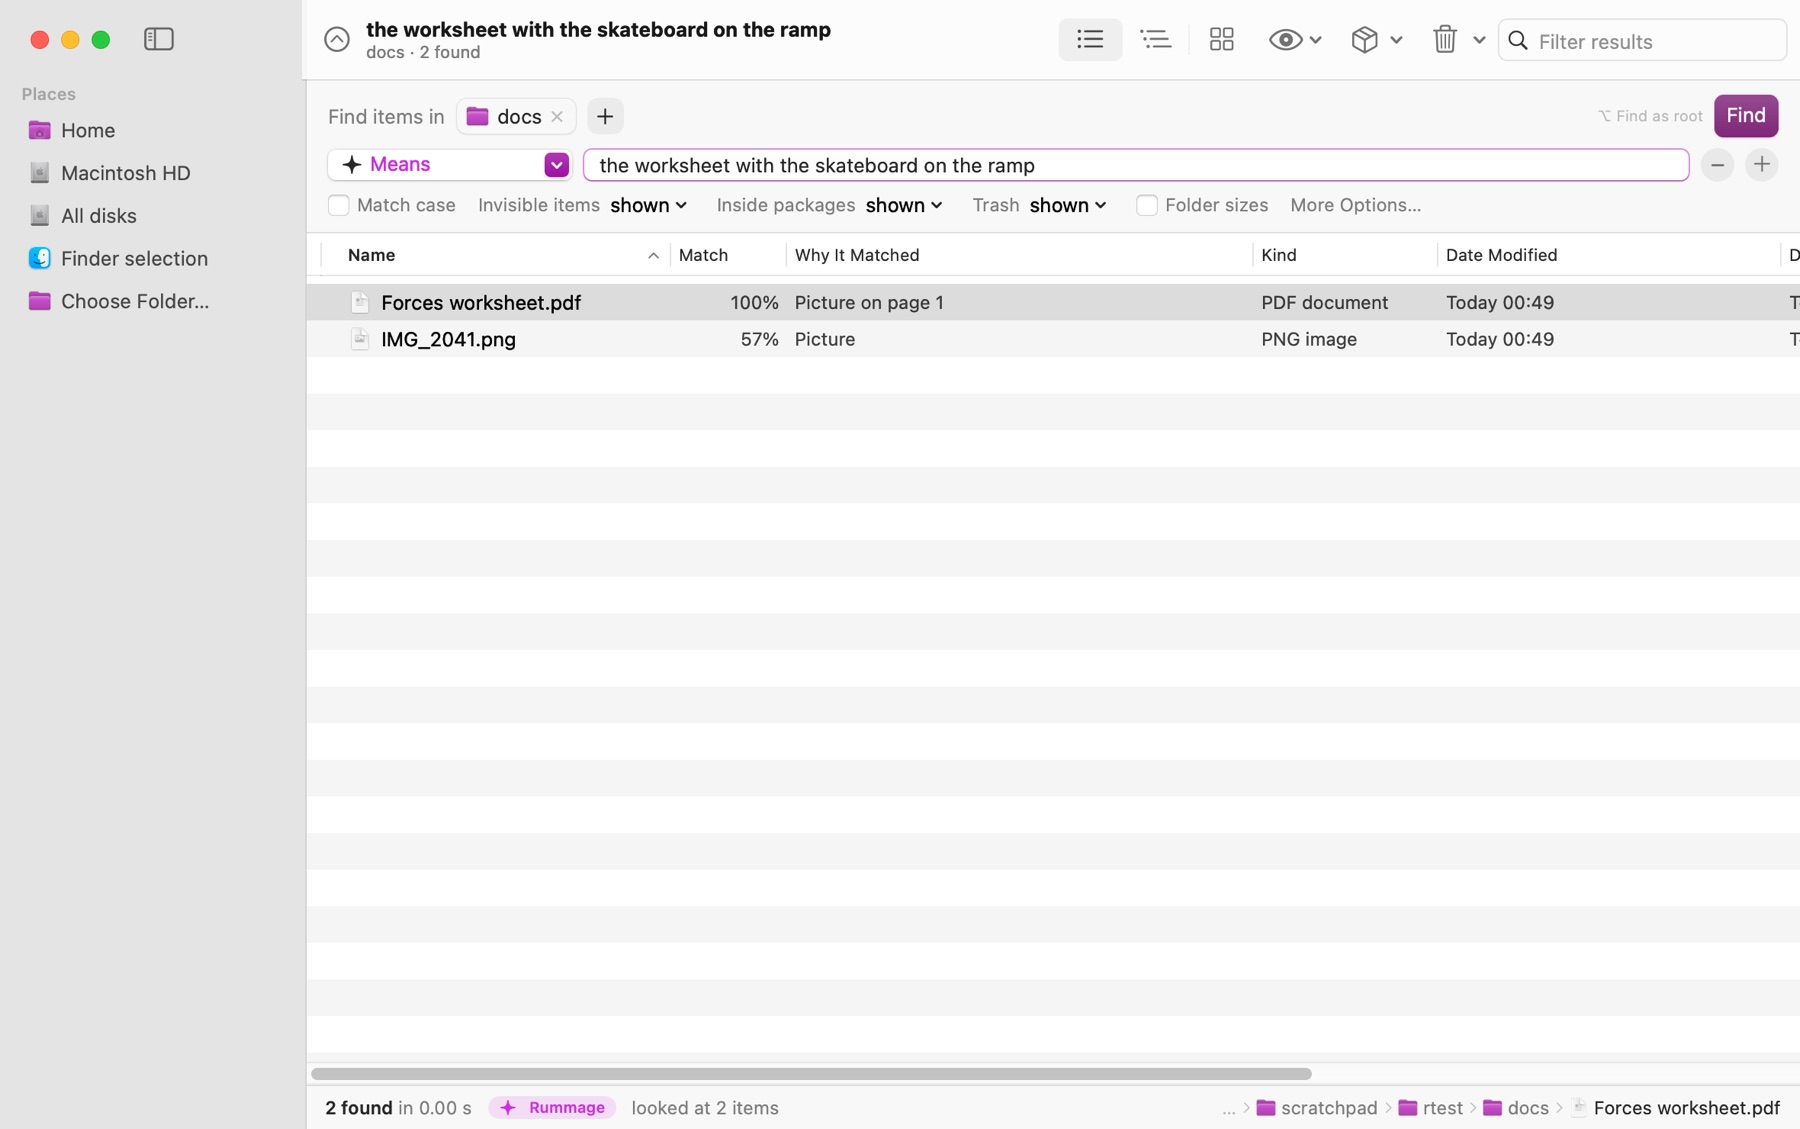
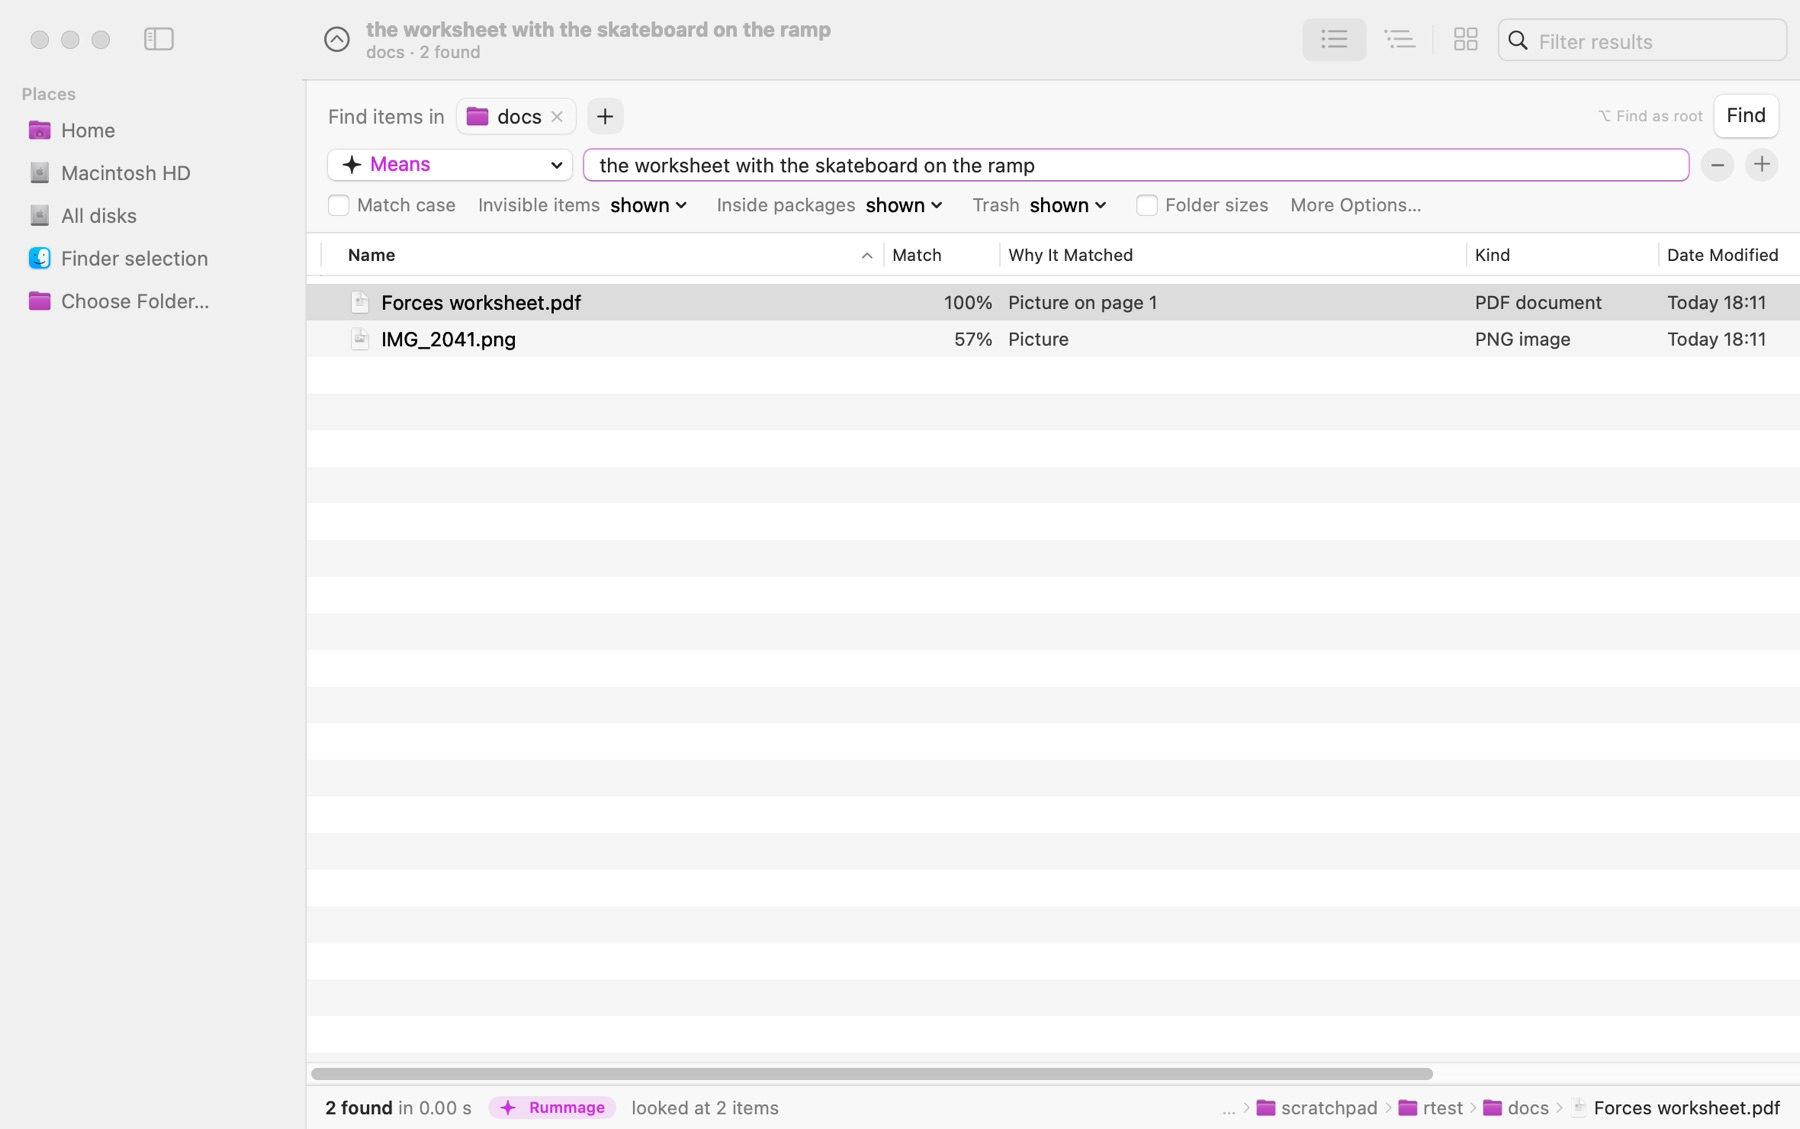
Publish Rummage 1.0.1

diff --git a/apps/rummage/index.html b/apps/rummage/index.html
@@ -115,12 +115,12 @@ ol.rm .n{flex:none;width:24px;height:24px;border-radius:12px;display:grid;place-
     <div><h1>Rummage</h1>
     <p class="sum">Find any file by its name, dates, size, kind, tags, contents and more, straight from the disk with no index, and several times faster than a one-folder-at-a-time search in your home folder. Turn on Rummage and it also finds files by what they're about: a sentence like “the worksheet with the skateboard on the ramp” finds the PDF, the scan or the photo, read on your Mac and never uploaded. Opens Find Any File's saved searches.</p>
     <p class="alt">An alternative to Find Any File.</p>
-    <div class="acts"><a class="btn primary big" href="https://github.com/explainsims/store/releases/download/rummage-1.0.0/Rummage-1.0.0.zip">Download</a><small>1.0.0 · 22.6 MB · free</small><a href="#feedback"><svg width="14" height="14" viewBox="0 0 15 15" fill="none" stroke="currentColor" stroke-width="1.4" stroke-linejoin="round" aria-hidden="true"><path d="M2.2 3.6c0-.9.7-1.6 1.6-1.6h7.4c.9 0 1.6.7 1.6 1.6v5.2c0 .9-.7 1.6-1.6 1.6H6.4L3.6 12.8v-2.4c-.8 0-1.4-.7-1.4-1.6z"/></svg>Send Feedback</a></div>
+    <div class="acts"><a class="btn primary big" href="https://github.com/explainsims/store/releases/download/rummage-1.0.1/Rummage-1.0.1.zip">Download</a><small>1.0.1 · 22.5 MB · free</small><a href="#feedback"><svg width="14" height="14" viewBox="0 0 15 15" fill="none" stroke="currentColor" stroke-width="1.4" stroke-linejoin="round" aria-hidden="true"><path d="M2.2 3.6c0-.9.7-1.6 1.6-1.6h7.4c.9 0 1.6.7 1.6 1.6v5.2c0 .9-.7 1.6-1.6 1.6H6.4L3.6 12.8v-2.4c-.8 0-1.4-.7-1.4-1.6z"/></svg>Send Feedback</a></div>
     <p class="tip">Or get <a href="../../apps/storefront/">Storefront</a>: it installs Rummage in one click, skips the Open Anyway step, and keeps it up to date.</p></div>
   </header>
   <section class="facts" aria-label="Facts">
-    <div><small>Version</small><b>1.0.0</b><i>latest</i></div>
-    <div><small>Size</small><b>22.6 MB</b><i>download</i></div>
+    <div><small>Version</small><b>1.0.1</b><i>latest</i></div>
+    <div><small>Size</small><b>22.5 MB</b><i>download</i></div>
     <div><small>Needs</small><b>macOS 14</b><i>or later</i></div>
     <div><small>Chip</small><b>Any Mac</b><i>Apple silicon and Intel</i></div>
     <div><small>Updated</small><b>14 Nov</b><i>2026</i></div>
@@ -131,7 +131,7 @@ ol.rm .n{flex:none;width:24px;height:24px;border-radius:12px;display:grid;place-
 </section>
 <dialog class="lightbox" aria-label="Screenshot"><img alt=""><button type="button" class="lb prev" aria-label="Previous">&#8249;</button><button type="button" class="lb next" aria-label="Next">&#8250;</button><button type="button" class="lb x" aria-label="Close">&times;</button></dialog>
   <section class="cols">
-    <div><h2>What's new in 1.0.0</h2><ul><li>First release: every Find Any File rule and its speed (about 7× faster in a home folder), plus Rummage, which finds files by what's in them, read on your Mac.</li></ul></div>
+    <div><h2>What's new in 1.0.1</h2><ul><li>The toolbar's eye, box and trash icons are gone: set invisible items, package contents and the Trash with the pickers under the rules.</li></ul></div>
     <div><h2>Good to know</h2><dl class="kv"><dt>Needs</dt><dd>Searching by meaning needs macOS 15 and an Apple Silicon Mac, and a one-time download of its reading model (about 0.9 GB)</dd><dt>Licence</dt><dd>MIT</dd><dt>Read Me</dt><dd><a href="readme.html">How to use Rummage</a></dd><dt>First open</dt><dd>macOS asks you to allow it once, under System Settings › Privacy &amp; Security › Open Anyway. Apps installed through Storefront skip that.</dd></dl></div>
   </section>
   <section class="fbcard" id="feedback"><div class="fbtop"><h2>Send feedback about Rummage</h2><span class="priv"><svg width="12" height="12" viewBox="0 0 12 12" fill="none" stroke="currentColor" stroke-width="1.5" aria-hidden="true"><rect x="2" y="5.2" width="8" height="5.6" rx="1.4"/><path d="M3.8 5.2V3.8a2.2 2.2 0 0 1 4.4 0v1.4"/></svg>Private and anonymous</span></div>

diff --git a/index.html b/index.html
@@ -150,8 +150,8 @@ ol.rm .n{flex:none;width:24px;height:24px;border-radius:12px;display:grid;place-
   <div class="t"><h3><a class="cover" href="apps/pigeonhole/">Pigeonhole</a></h3><p class="tag">Spaces of tabs for Chrome and Edge.</p><small>1.4.1 · 2.5 MB</small></div>
   <a class="btn get" href="https://github.com/explainsims/store/releases/download/pigeonhole-1.4.1/Pigeonhole-1.4.1.zip" aria-label="Download Pigeonhole">Download</a></article>
 <article class="app" id="rummage" data-kind="tools" data-text="rummage find any file, even by what's in it. find any file by its name, dates, size, kind, tags, contents and more, straight from the disk with no index, and several times faster than a one-folder-at-a-time search in your home folder. turn on rummage and it also finds files by what they're about: a sentence like “the worksheet with the skateboard on the ramp” finds the pdf, the scan or the photo, read on your mac and never uploaded. opens find any file's saved searches. find any file tools"><img class="icon" src="icons/rummage.png" alt="" width="64" height="64" loading="lazy">
-  <div class="t"><h3><a class="cover" href="apps/rummage/">Rummage</a></h3><p class="tag">Find any file, even by what's in it.</p><small>1.0.0 · 22.6 MB</small></div>
-  <a class="btn get" href="https://github.com/explainsims/store/releases/download/rummage-1.0.0/Rummage-1.0.0.zip" aria-label="Download Rummage">Download</a></article>
+  <div class="t"><h3><a class="cover" href="apps/rummage/">Rummage</a></h3><p class="tag">Find any file, even by what's in it.</p><small>1.0.1 · 22.5 MB</small></div>
+  <a class="btn get" href="https://github.com/explainsims/store/releases/download/rummage-1.0.1/Rummage-1.0.1.zip" aria-label="Download Rummage">Download</a></article>
 <article class="app" id="scrawl" data-kind="tools" data-text="scrawl screenshots with arrows, text and blur. capture an area, a window or the whole screen from the menu bar, then mark it up with arrows, shapes, text, highlights and blur. skitch tools"><img class="icon" src="icons/scrawl.png" alt="" width="64" height="64" loading="lazy">
   <div class="t"><h3><a class="cover" href="apps/scrawl/">Scrawl</a></h3><p class="tag">Screenshots with arrows, text and blur.</p><small>1.1.1 · 2.2 MB</small></div>
   <a class="btn get" href="https://github.com/explainsims/store/releases/download/scrawl-1.1.1/Scrawl-1.1.1.zip" aria-label="Download Scrawl">Download</a></article>

diff --git a/apps/rummage/readme.html b/apps/rummage/readme.html
@@ -112,7 +112,7 @@ ol.rm .n{flex:none;width:24px;height:24px;border-radius:12px;display:grid;place-
 <main class="page readme">
   <div class="rmtop"><a class="back" href="./">&#8249; Rummage</a><a href="../../readme/rummage.txt">Plain text</a></div>
   <header class="rmhead"><img class="icon" src="../../icons/rummage.png" alt="" width="64" height="64">
-    <div><h1>Read Me</h1><p>Rummage 1.0.0 · how to install and use it</p></div>
+    <div><h1>Read Me</h1><p>Rummage 1.0.1 · how to install and use it</p></div>
   </header>
   <p class="lead">Find any file on your Mac by its name, dates, size, kind or anything else, fast and without an index. And find files by what's in them: Rummage reads your documents and pictures on your Mac, so <b>the worksheet with the skateboard on the ramp</b> finds it.</p>
 <h2>What's in this folder</h2>
